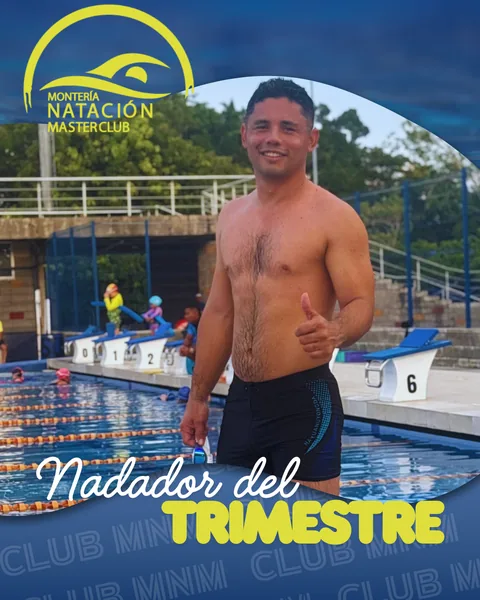
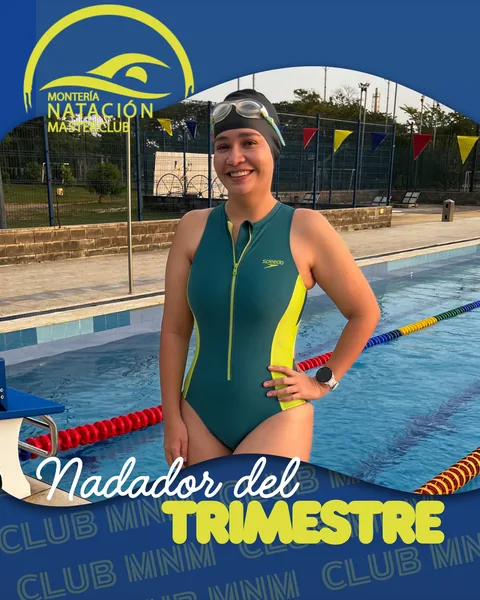
modifique natador del trimetre

diff --git a/index.html b/index.html
@@ -6,8 +6,8 @@
     
     <!-- SEO Meta Tags -->
     <title>Clases Natación Adultos y Niños | Montería | Club MNM</title>
-    <meta name="description" content="Clases de natación para adultos y niños en Montería. Matrícula $0 en julio. Piscina Villaolímpica. ¡Ven y entrena con nosotros! Club Montería Natación Master.">
-    <meta name="keywords" content="clases de natacion para adultos, clases de natacion adultos, clases de natacion niños, clases de natacion para niños, clases de natacion monteria, piscinas abiertas en monteria, piscina monteria, natacion monteria, natación montería, matricula 0 julio monteria, club natacion monteria, escuela natación montería, piscina villaolímpica montería">
+    <meta name="description" content="Clases de natación para adultos y niños en Montería. Matrícula gratis y tarifas en off en agosto. Piscina Villaolímpica. ¡Ven y entrena con nosotros! Club Montería Natación Master.">
+    <meta name="keywords" content="clases de natacion para adultos, clases de natacion adultos, clases de natacion niños, clases de natacion para niños, clases de natacion monteria, piscinas abiertas en monteria, piscina monteria, natacion monteria, natación montería, matricula gratis agosto monteria, club natacion monteria, escuela natación montería, piscina villaolímpica montería">
     <meta name="author" content="Club Montería Natación Master">
     <meta name="robots" content="index, follow, max-image-preview:large, max-snippet:-1, max-video-preview:-1">
     <meta name="googlebot" content="index, follow">
@@ -22,7 +22,7 @@
     <meta property="og:type" content="website">
     <meta property="og:url" content="https://monterianatacionmaster.netlify.app/">
     <meta property="og:title" content="Clases Natación Adultos y Niños | Montería | Club MNM">
-    <meta property="og:description" content="Matrícula $0 en julio. Clases de natación para adultos y niños en Montería. ¡Ven y entrena con nosotros! Club Montería Natación Master.">
+    <meta property="og:description" content="Matrícula gratis y tarifas en off en agosto. Clases de natación para adultos y niños en Montería. ¡Ven y entrena con nosotros! Club Montería Natación Master.">
     <meta property="og:image" content="https://monterianatacionmaster.netlify.app/logo/MNM.png">
     <meta property="og:image:width" content="1200">
     <meta property="og:image:height" content="630">
@@ -34,7 +34,7 @@
     <meta name="twitter:card" content="summary_large_image">
     <meta name="twitter:url" content="https://monterianatacionmaster.netlify.app/">
     <meta name="twitter:title" content="Clases Natación Adultos y Niños | Montería | Club MNM">
-    <meta name="twitter:description" content="Matrícula $0 en julio. Clases de natación para adultos y niños en Montería. ¡Ven y entrena con nosotros! Club Montería Natación Master.">
+    <meta name="twitter:description" content="Matrícula gratis y tarifas en off en agosto. Clases de natación para adultos y niños en Montería. ¡Ven y entrena con nosotros! Club Montería Natación Master.">
     <meta name="twitter:image" content="https://monterianatacionmaster.netlify.app/logo/MNM.png">
     <meta name="twitter:image:alt" content="Club Montería Natación Master - Clases de natación adultos y niños">
     
@@ -135,11 +135,11 @@
         <div class="hero-content">
             <h1>Club Montería Natación Master</h1>
             <p>Clases de natación para adultos y clases de natación niños en Montería</p>
-            <p><span class="hero-highlight">Matrícula $0 en julio — ¡Ven y entrena con nosotros!</span></p>
+            <p><span class="hero-highlight">Matrícula gratis + tarifas en off en agosto — ¡Ven y entrena con nosotros!</span></p>
             <p><span class="hero-highlight">Convierte la natación de una opción en tu gran pasión</span></p>
             <p class="hero-info">Piscinas abiertas en Montería — Villaolímpica, carril 7</p>
             <p class="hero-info">Inspirados en la excelencia #Sabemosdenatación</p>
-            <a href="https://wa.me/573144809367?text=Hola,%20quiero%20información%20sobre%20matrícula%20%240%20en%20julio.%20¡Ven%20y%20entrena%20con%20nosotros!" target="_blank" rel="noopener noreferrer" class="cta-button cta-whatsapp">📱 Escríbenos por WhatsApp</a>
+            <a href="https://wa.me/573144809367?text=Hola,%20quiero%20información%20sobre%20matrícula%20gratis%20y%20tarifas%20en%20off%20en%20agosto.%20¡Ven%20y%20entrena%20con%20nosotros!" target="_blank" rel="noopener noreferrer" class="cta-button cta-whatsapp">📱 Escríbenos por WhatsApp</a>
         </div>
     </section>
 
@@ -148,7 +148,7 @@
         <div class="featured-highlight-content">
             <h2>🌟 ÚNICO CLUB NATACIÓN EN MONTERÍA</h2>
             <p><strong>Montería Natación Master</strong> ofrece <strong>clases de natación para adultos</strong> y <strong>clases de natación niños</strong> en Montería, con <strong>seguimiento digital anual</strong>. Entrenamos en las <strong>piscinas abiertas en Montería</strong> — Piscina Villaolímpica. Somos transparentes y controlamos la inversión deportiva.</p>
-            <span class="highlight-badge">🏊 Matrícula $0 en julio — ¡Ven y entrena con nosotros! Convierte la natación de una opción en tu gran pasión</span>
+            <span class="highlight-badge">🏊 Matrícula gratis + tarifas en off en agosto — ¡Ven y entrena con nosotros! Convierte la natación de una opción en tu gran pasión</span>
         </div>
     </section>
 
@@ -168,8 +168,8 @@
                 <span class="announcement-subtitle"> Niños desde 5 años</span>
             </div>
             <div class="announcement-item">
-                <span class="announcement-title">🏊 Matrícula $0 en julio</span>
-                <span class="announcement-subtitle">¡Ven y entrena con nosotros!</span>
+                <span class="announcement-title">🏊 Matrícula gratis + tarifas en off</span>
+                <span class="announcement-subtitle">¡Agosto — Ven y entrena con nosotros!</span>
             </div>
             <div class="announcement-item">
                 <span class="announcement-title">🎯 "Descarga aquí las notas "</span>
@@ -177,7 +177,7 @@
             </div>
             <div class="announcement-item">
                 <span class="announcement-title">🏊♂ Preguntale NatalIA nuestro Asistente Virtual</span>
-                <span class="announcement-subtitle"> Reglamento, reposiciones e inscripciones en julio</span>
+                <span class="announcement-subtitle"> Reglamento, reposiciones e inscripciones en agosto</span>
             </div>
             <!-- Duplicamos los anuncios para loop continuo -->
           <div class="announcement-item">
@@ -193,8 +193,8 @@
                 <span class="announcement-subtitle"> Niños desde 5 años</span>
             </div>
             <div class="announcement-item">
-                <span class="announcement-title">🏊 Matrícula $0 en julio</span>
-                <span class="announcement-subtitle">¡Ven y entrena con nosotros!</span>
+                <span class="announcement-title">🏊 Matrícula gratis + tarifas en off</span>
+                <span class="announcement-subtitle">¡Agosto — Ven y entrena con nosotros!</span>
             </div>
             <div class="announcement-item">
                 <span class="announcement-title">🎯 Descarga aquí las notas</span>
@@ -202,7 +202,7 @@
             </div>
             <div class="announcement-item">
                 <span class="announcement-title">🏊♂ Preguntale NatalIA nuestro Asistente Virtual </span>
-                <span class="announcement-subtitle"> Reglamento, reposiciones e inscripciones en julio</span>
+                <span class="announcement-subtitle"> Reglamento, reposiciones e inscripciones en agosto</span>
             </div>
         </div>
     </section>
@@ -210,7 +210,7 @@
     <!-- Sección de Ofertas Especiales -->
     <section class="special-offers" id="ofertas">
         <div class="container">
-            <h2 class="section-title">🔥 ¡Oferta Especial Julio — Matrícula $0! 🔥</h2>
+            <h2 class="section-title">🔥 ¡Oferta Especial Agosto — Matrícula Gratis + Tarifas en Off! 🔥</h2>
             <div class="offer-content">
                 <div class="countdown-container">
                     <div class="countdown-timer">
@@ -232,10 +232,11 @@
                         </div>
                     </div>
                     <div class="offer-details">
-                        <h3 class="offer-title">💸 ¡MATRÍCULA $0 EN JULIO! 💸</h3>
-                        <p class="offer-description">¡Ven y entrena con nosotros! Matrícula $0 en julio para grupo familiar y tarifa especial para nuevos y antiguos. Válido hasta el 31 de julio de 2026 (no incluye póliza de seguro).</p>
+                        <h3 class="offer-title">💸 ¡MATRÍCULA GRATIS + TARIFAS EN OFF! 💸</h3>
+                        <p class="offer-description">¡Ven y entrena con nosotros! Matrícula gratis en agosto y tarifas en off para nuevos y antiguos. Válido hasta el 31 de agosto de 2026 (no incluye póliza de seguro).</p>
                         <div class="offer-features">
-                            <div class="feature">✅ Matrícula $0 en julio — grupo familiar y tarifa especial para nuevos y antiguos</div>
+                            <div class="feature">✅ Matrícula gratis en agosto</div>
+                            <div class="feature">✅ Tarifas en off para nuevos y antiguos</div>
                             <div class="feature">✅ Paquetes de 1, 2 y 3 veces por semana en el mes</div>
                             <div class="feature">✅ Adquiere nuestros uniformes</div>
                         </div>
@@ -248,9 +249,9 @@
     <!-- Sección de Inscripción -->
     <section class="enrollment-section">
         <div class="container">
-            <p class="enrollment-text">Matrícula $0 en julio. ¡Ven y entrena con nosotros y convierte la natación de una opción en tu gran pasión!</p>
-            <a href="https://wa.me/573144809367?text=Hola,%20quiero%20inscribirme%20en%20julio%20con%20matrícula%20%240.%20¡Ven%20y%20entrena%20con%20nosotros!" target="_blank" rel="noopener noreferrer" class="enrollment-button">
-                ¡Julio — Ven y Entrena con Nosotros!
+            <p class="enrollment-text">Matrícula gratis + tarifas en off en agosto. ¡Ven y entrena con nosotros y convierte la natación de una opción en tu gran pasión!</p>
+            <a href="https://wa.me/573144809367?text=Hola,%20quiero%20inscribirme%20en%20agosto%20con%20matrícula%20gratis%20y%20tarifas%20en%20off.%20¡Ven%20y%20entrena%20con%20nosotros!" target="_blank" rel="noopener noreferrer" class="enrollment-button">
+                ¡Agosto — Matrícula Gratis + Tarifas en Off!
             </a>
         </div>
     </section>
@@ -559,7 +560,7 @@
                     <p>Premiamos el esfuerzo y dedicación:</p>
                     <ul>
                         <li>Nadador del trimestre</li>
-                        <li>Matrícula $0 en julio — ¡Ven y entrena con nosotros!</li>
+                        <li>Matrícula gratis + tarifas en off en agosto — ¡Ven y entrena con nosotros!</li>
                         <li>Estímulos para nivel Equipo cuando los nadadores estan en preparación de Competencias</li>
                     </ul>
                 </div>
@@ -645,7 +646,7 @@
                 <h2 class="chatbot-title">🤖 Conoce a NatalIA</h2>
                 <p class="chatbot-description">
                     Nuestro asistente virtual inteligente está aquí para ayudarte las 24 horas. 
-                    NatalIA puede resolver tus dudas sobre matrícula $0 en julio, reglamentos, horarios y mucho más. ¡Ven y entrena con nosotros!
+                    NatalIA puede resolver tus dudas sobre matrícula gratis y tarifas en off en agosto, reglamentos, horarios y mucho más. ¡Ven y entrena con nosotros!
                 </p>
                 
                 <div class="chatbot-features">
@@ -796,17 +797,17 @@
         <div class="promo-popup-content">
             <button type="button" class="promo-popup-close" id="promoPopupClose" aria-label="Cerrar promoción">&times;</button>
             <div class="promo-popup-header">
-                <span class="promo-popup-badge">🎉 Matrícula $0 — Julio</span>
+                <span class="promo-popup-badge">🎉 Matrícula gratis + Tarifas en off — Agosto</span>
                 <h2 id="promoPopupTitle">Club Montería Natación Master</h2>
                 <p class="promo-popup-subtitle">Natación para niños y adultos — enseñamos los 4 estilos</p>
             </div>
             <div class="promo-popup-body">
                 <div class="promo-popup-highlight">
                     <strong>🏊 ¡Ven y entrena con nosotros!</strong>
-                    <p>Matrícula $0 en julio. Entrena temprano en horario de mañana y aprovecha tarifas especiales. ¡Cupos limitados!</p>
+                    <p>Matrícula gratis y tarifas en off en agosto. Entrena temprano en horario de mañana. ¡Cupos limitados!</p>
                 </div>
                 <div class="promo-popup-offer">
-                    <p><strong>Matrícula $0 en julio</strong> <span class="promo-conditions">(aplican condiciones — válido hasta el 31 de julio)</span></p>
+                    <p><strong>Matrícula gratis + tarifas en off en agosto</strong> <span class="promo-conditions">(aplican condiciones — válido hasta el 31 de agosto)</span></p>
                 </div>
                 <div class="promo-popup-horarios">
                     <h3>⏰ Horarios de clases</h3>
@@ -821,7 +822,7 @@
                 </div>
             </div>
             <div class="promo-popup-actions">
-                <a href="https://wa.me/573144809367?text=Hola,%20quiero%20información%20sobre%20matrícula%20%240%20en%20julio.%20¡Ven%20y%20entrena%20con%20nosotros!" target="_blank" rel="noopener noreferrer" class="cta-button cta-whatsapp">📱 Escríbenos por WhatsApp</a>
+                <a href="https://wa.me/573144809367?text=Hola,%20quiero%20información%20sobre%20matrícula%20gratis%20y%20tarifas%20en%20off%20en%20agosto.%20¡Ven%20y%20entrena%20con%20nosotros!" target="_blank" rel="noopener noreferrer" class="cta-button cta-whatsapp">📱 Escríbenos por WhatsApp</a>
             </div>
         </div>
     </div>
@@ -984,7 +985,7 @@
       "url": "https://monterianatacionmaster.netlify.app",
       "logo": "https://monterianatacionmaster.netlify.app/logo/MNM.png",
       "image": "https://monterianatacionmaster.netlify.app/logo/MNM.png",
-      "description": "Clases de natación para adultos y clases de natación niños en Montería. Matrícula $0 en julio. Club Montería Natación Master en la Piscina Villaolímpica. ¡Ven y entrena con nosotros!",
+      "description": "Clases de natación para adultos y clases de natación niños en Montería. Matrícula gratis y tarifas en off en agosto. Club Montería Natación Master en la Piscina Villaolímpica. ¡Ven y entrena con nosotros!",
       "address": {
         "@type": "PostalAddress",
         "streetAddress": "Villaolímpica",
@@ -1024,7 +1025,7 @@
         "@type": "OfferCatalog",
         "name": "Programas de Natación",
         "itemListElement": [
-          {"@type": "Offer", "itemOffered": {"@type": "Service", "name": "Matrícula $0 Julio", "description": "Matrícula $0 en julio en Piscina Montería. ¡Ven y entrena con nosotros!"}},
+          {"@type": "Offer", "itemOffered": {"@type": "Service", "name": "Matrícula Gratis y Tarifas en Off Agosto", "description": "Matrícula gratis y tarifas en off en agosto en Piscina Montería. ¡Ven y entrena con nosotros!"}},
           {"@type": "Offer", "itemOffered": {"@type": "Service", "name": "Clases de Natación Niños", "description": "Clases de natación niños en Montería desde los 5 años. Programa MasterKids con instructores certificados."}},
           {"@type": "Offer", "itemOffered": {"@type": "Service", "name": "Clases de Natación para Adultos", "description": "Clases de natación para adultos en Montería. Curso de natación en la Piscina Villaolímpica para principiantes y avanzados."}},
           {"@type": "Offer", "itemOffered": {"@type": "Service", "name": "Natación Competitiva", "description": "Programa de entrenamiento competitivo"}},

diff --git a/js/app.js b/js/app.js
@@ -67,7 +67,7 @@
             }
         }
 
-        // Popup promocional (horarios, matrícula $0 julio)
+        // Popup promocional (horarios, matrícula gratis agosto)
         const promoPopup = document.getElementById('promoPopup');
         const promoPopupClose = document.getElementById('promoPopupClose');
         const promoPopupOverlay = document.getElementById('promoPopupOverlay');
@@ -985,10 +985,10 @@
         // Configuración del contador de ofertas especiales
         const offerConfig = {
             enabled: true, // Cambiar a false para ocultar
-            startDate: '2026-07-01', // Inicio de la promo de julio
-            endDate: '2026-07-31', // Fin de la promo de julio
-            title: '💸 ¡MATRÍCULA $0 EN JULIO! 💸',
-            description: '¡Ven y entrena con nosotros! Matrícula $0 en julio para grupo familiar y tarifa especial para nuevos y antiguos. Válido hasta el 31 de julio de 2026 (no incluye póliza de seguro).'
+            startDate: 'auto', // Visible desde ahora para expectativas de agosto
+            endDate: '2026-08-31', // Fin de la promo de agosto
+            title: '💸 ¡MATRÍCULA GRATIS + TARIFAS EN OFF! 💸',
+            description: '¡Ven y entrena con nosotros! Matrícula gratis en agosto y tarifas en off para nuevos y antiguos. Válido hasta el 31 de agosto de 2026 (no incluye póliza de seguro).'
         };
 
         // Función para inicializar el contador
